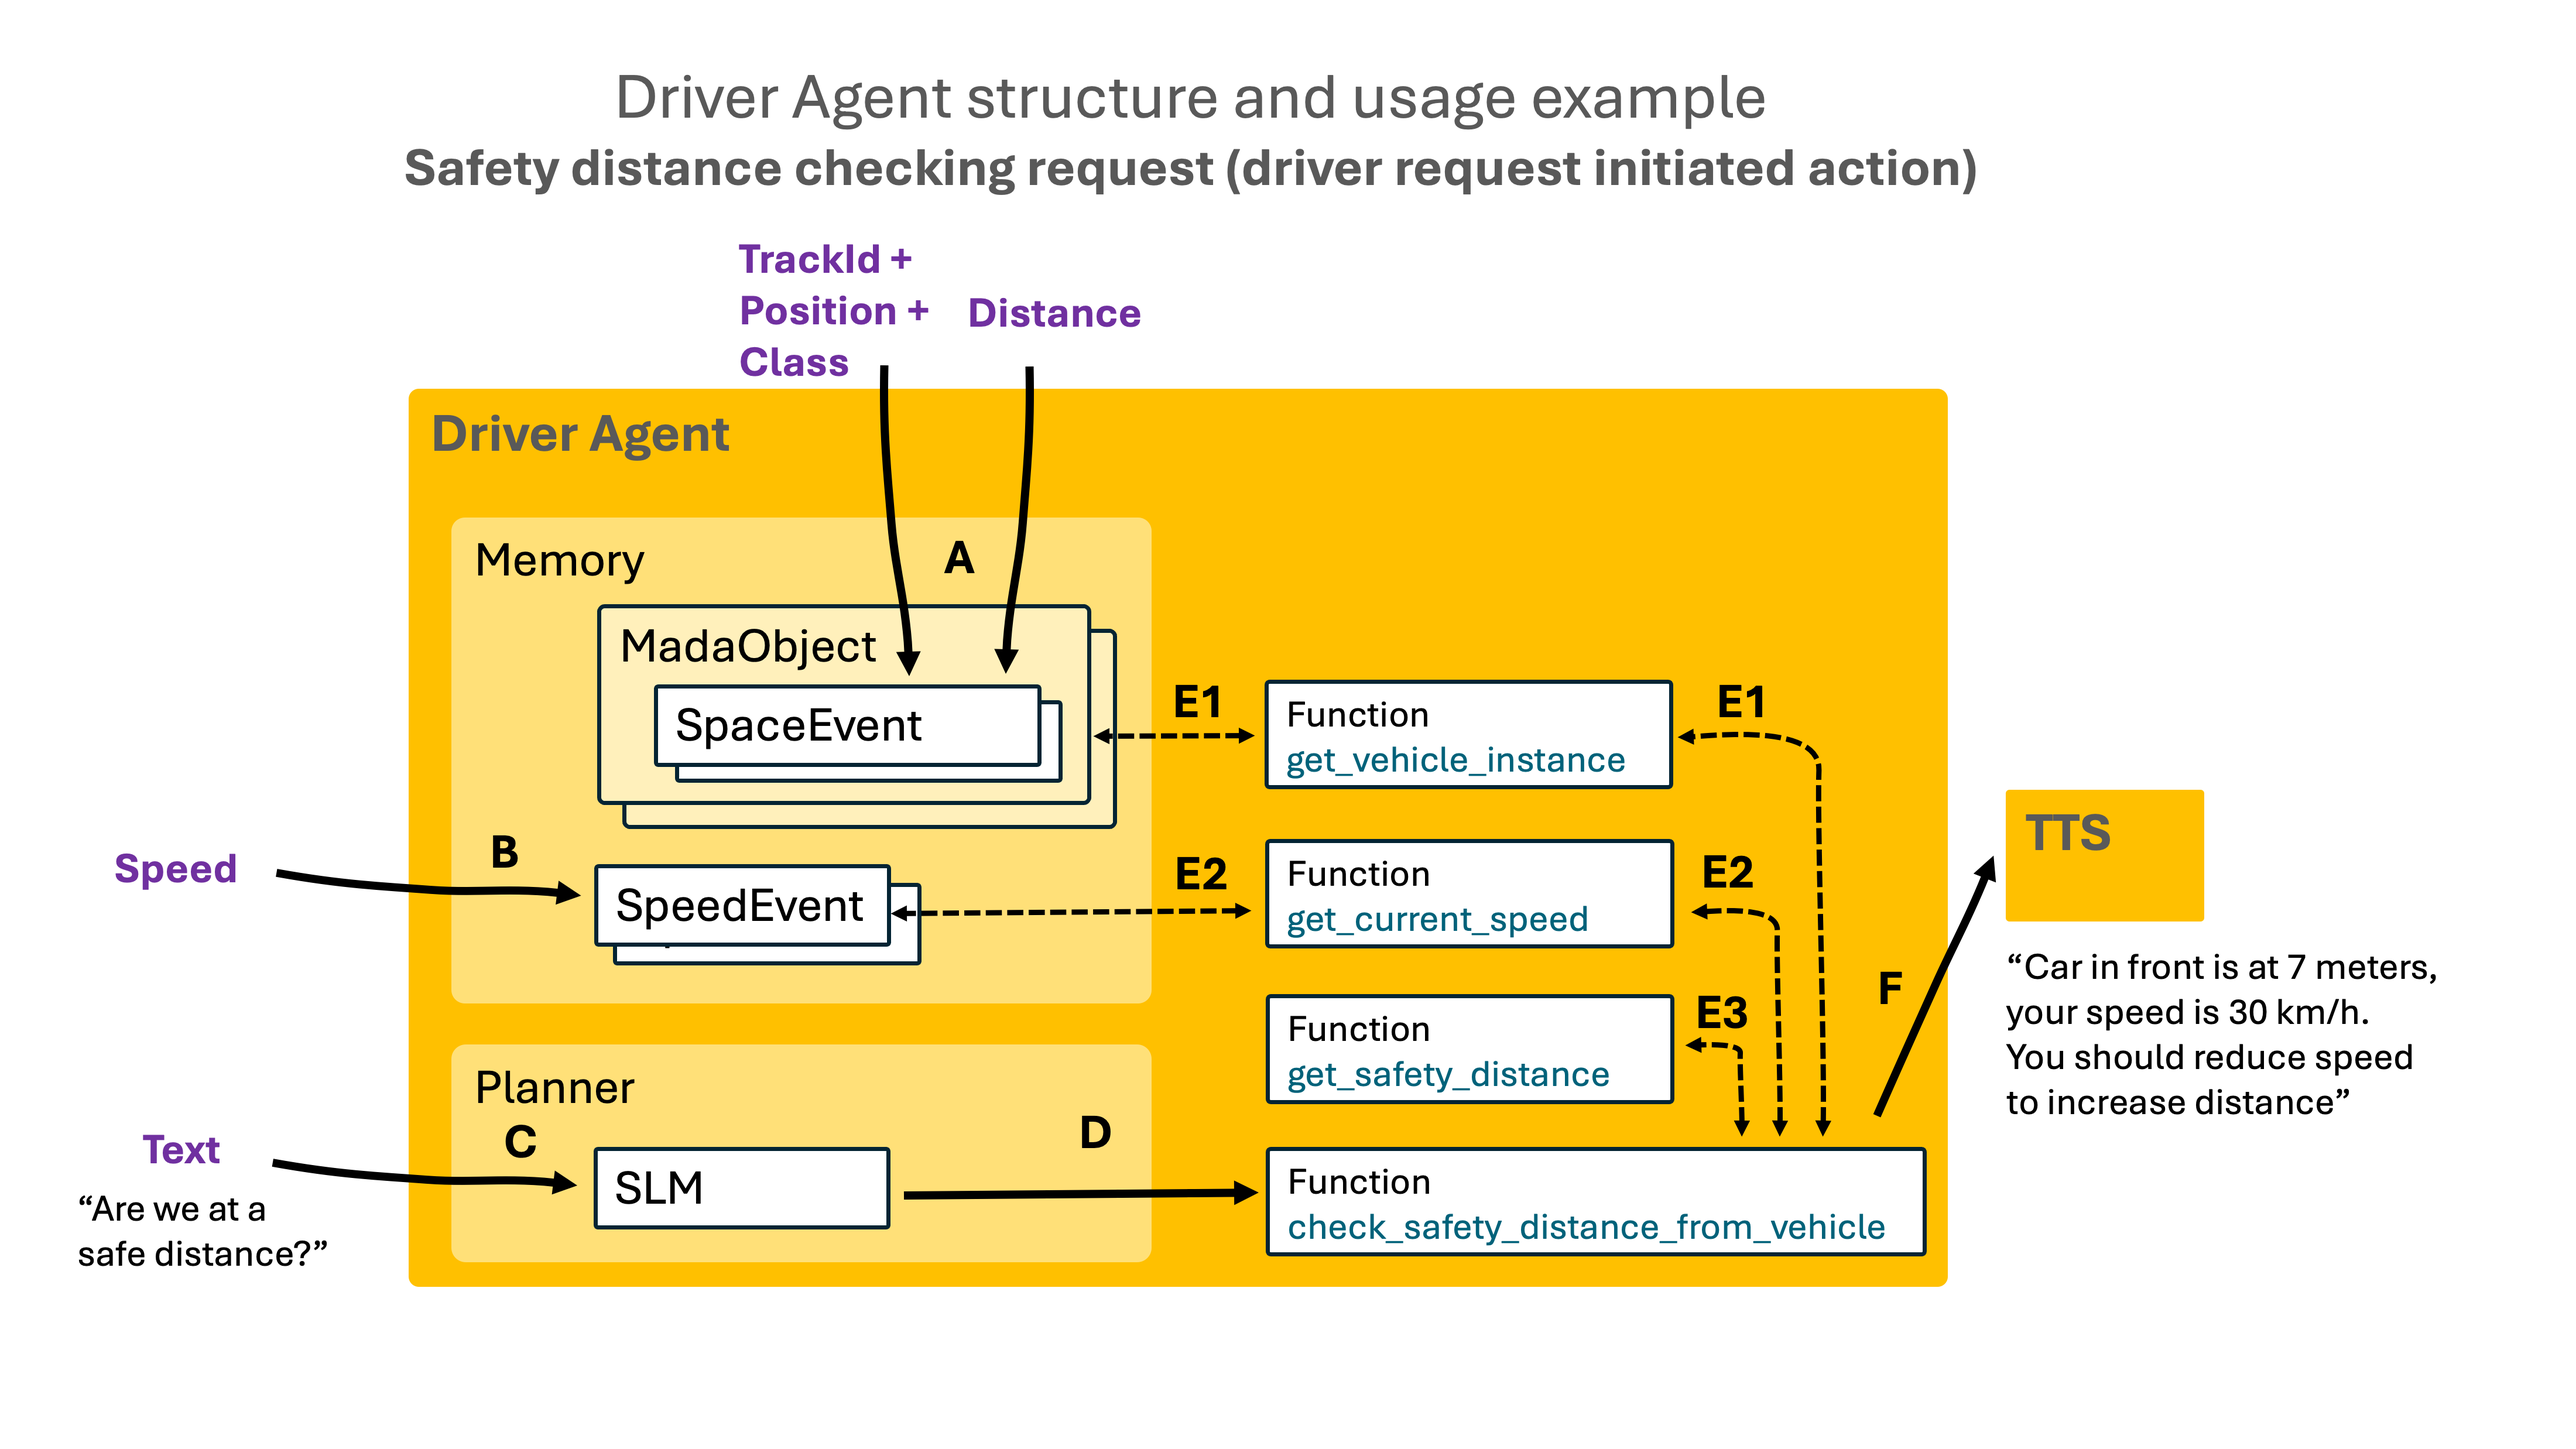
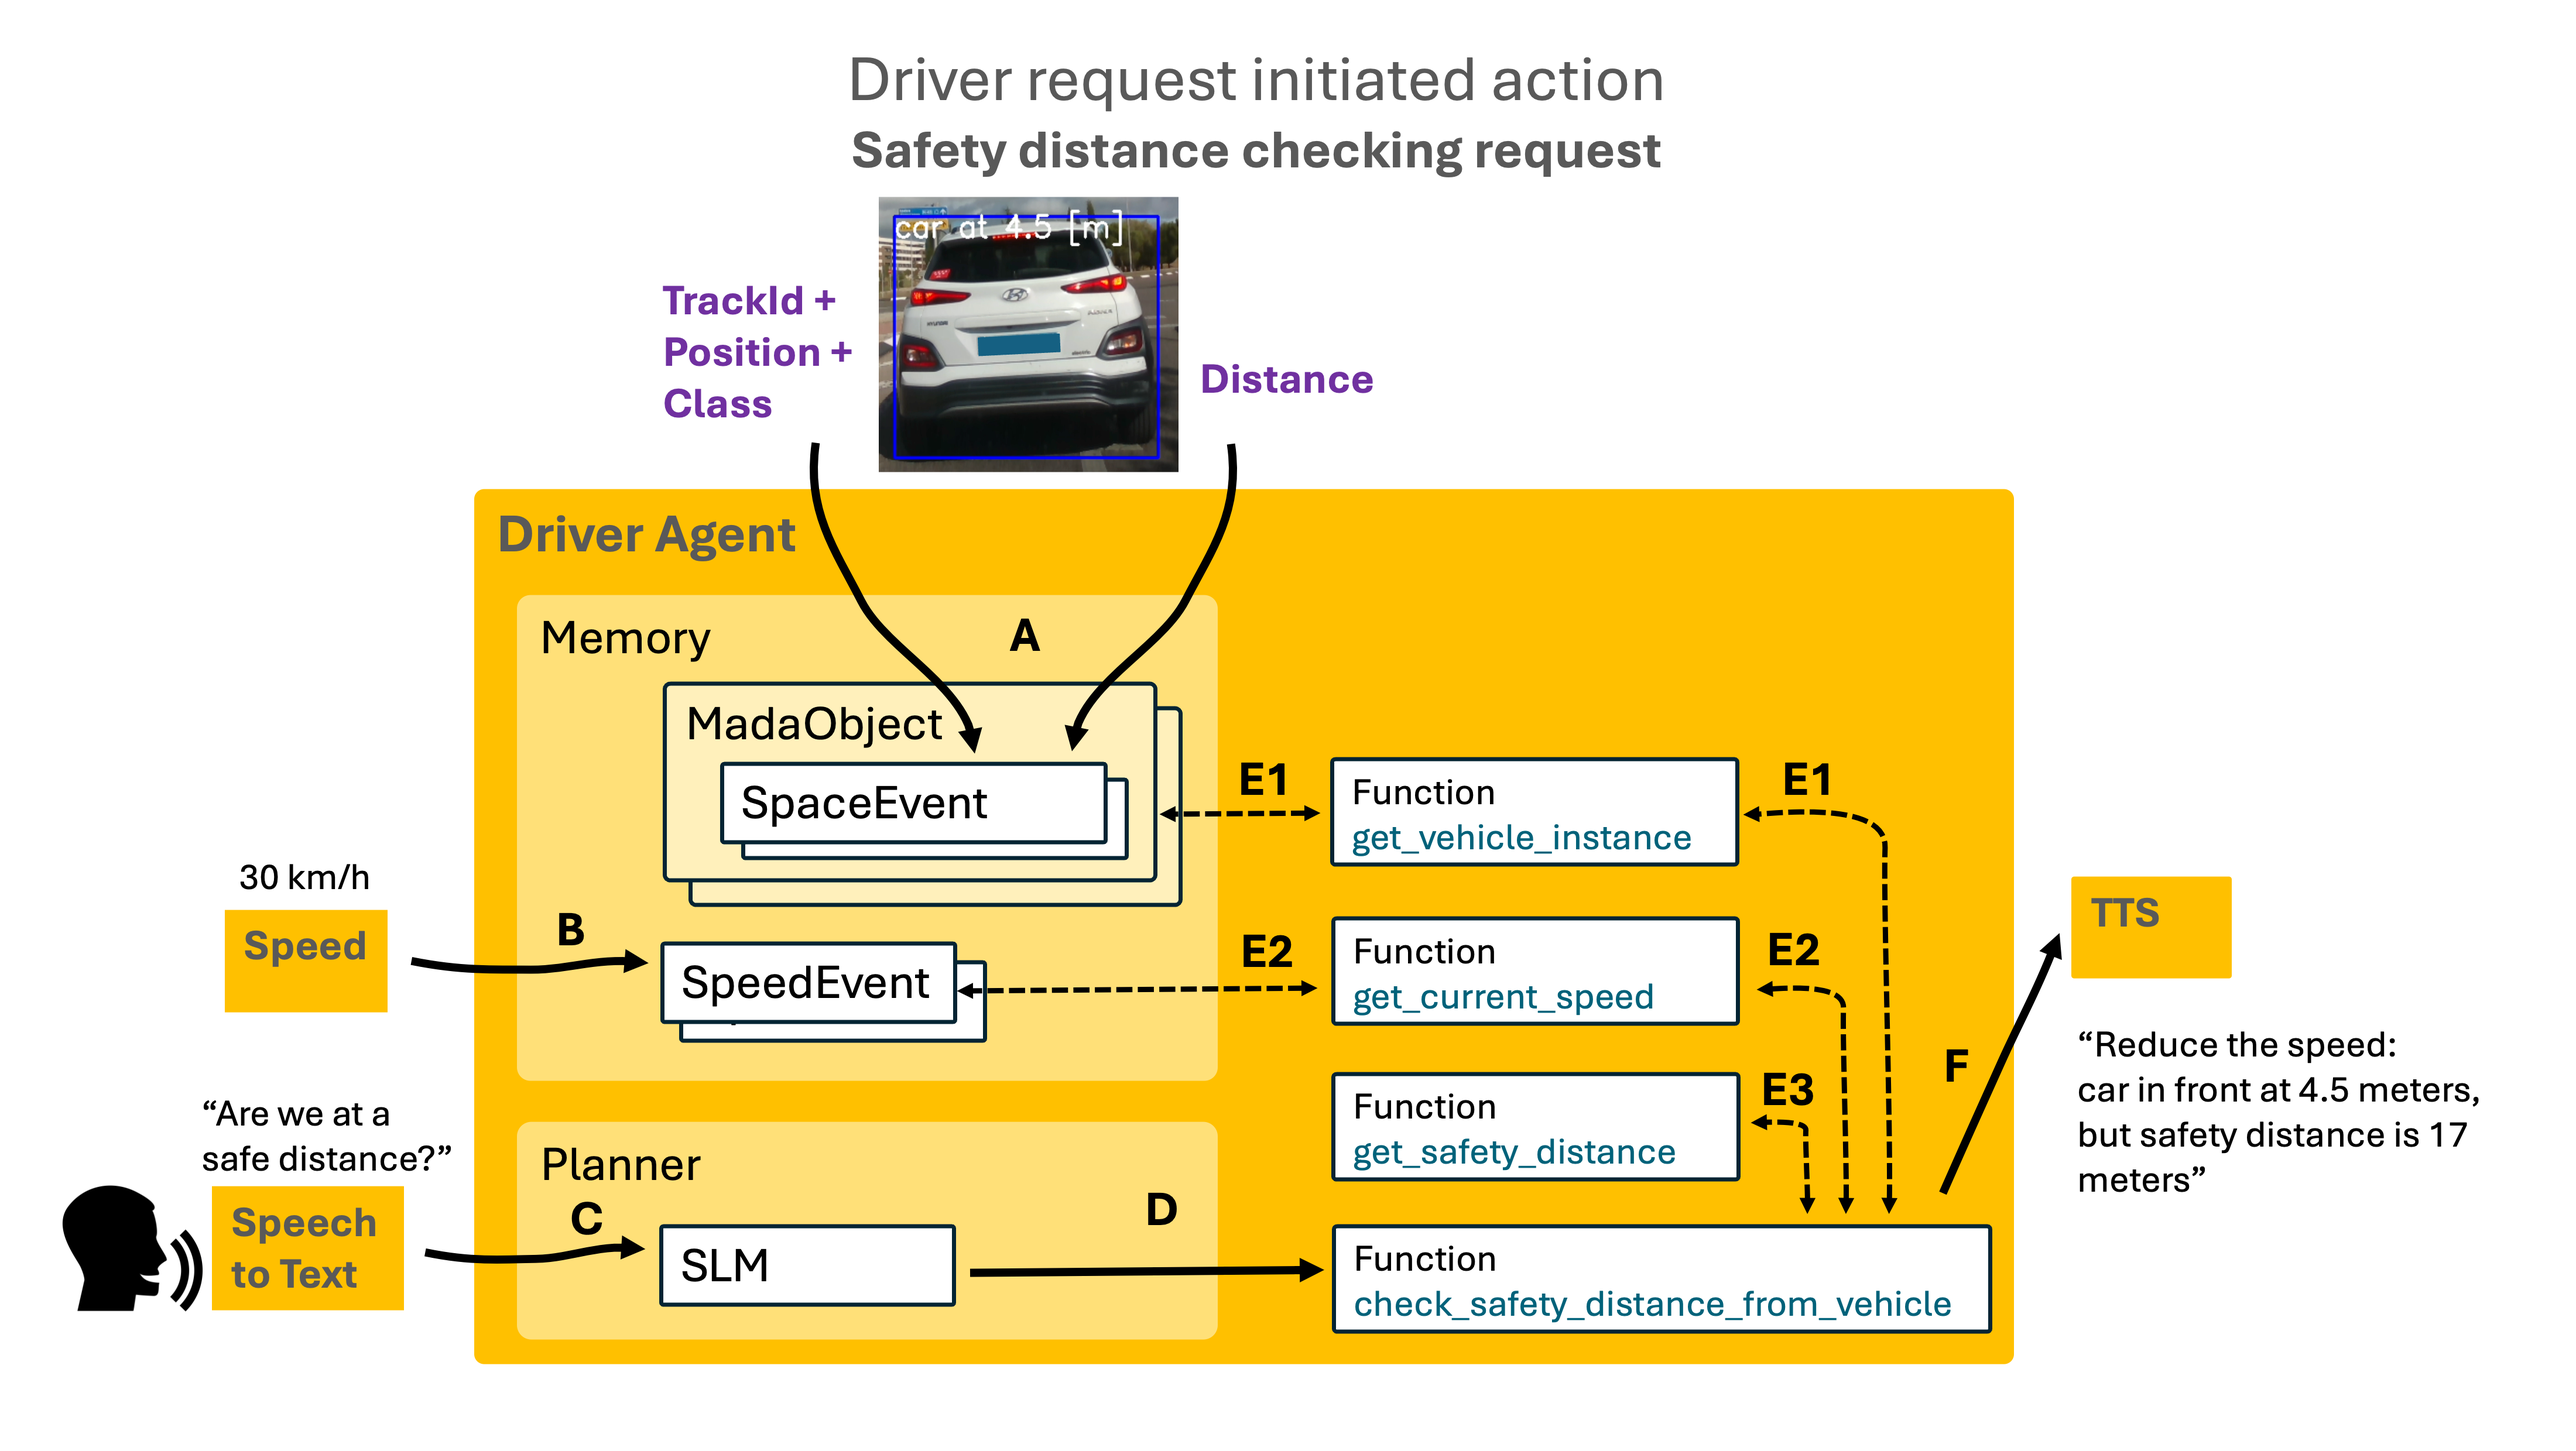
speed limit sign detection figure

diff --git a/README.md b/README.md
@@ -97,10 +97,23 @@ Text-to-speech functionality is currently very simple:
 - a call to macOS `afplay` command, which takes an audio file and plays it
 
 ### Driver Agent Usage example: event driven action
-(TODO)
+
 Next figure shows the Driver Agent structure with an example of use, an event action triggered by a detection of a speed limit sign.
 
 <img src="assets/driver_agent_speed_limit.png" alt="Driver Agent structure" width="800" height="450" />
+
+**A** Speed measurements are periodically collected from the GPS in the cell phone and sent to the server in the computer, 
+where they are stored as speed events in the Driver Agent’s Memory.
+
+**B** The Object Detector scans RGB images at a given frame rate from the camera in order to detect MADA objects:
+people, vehicles, traffic signs, traffic lights. When a MADA object is detected and tracked, a Space event is generated
+as attribute of the MADA object, consisting of the detected class name, the trackId, the bounding box and the distance to the camera.
+In this case, the Object Detector has detected a 20 km/h speed limit sign. A SpeedLimit object is created and a Space Event is added.
+
+**C** The `manage_space_event` method calls the function `get_current_speed`.
+
+**D** The method verifies that current speed is greater than the speed limit, therefore it generates a text recommending 
+the driver to reduce the speed. The text is sent to the TTS to be converted to audio.
 
 
 ### Driver Agent Usage example: driver request initiated action
@@ -110,10 +123,10 @@ Next figure shows another example of use, a driver request initiated action.
 
 **A** The Object Detector scans RGB images at a given frame rate from the camera in order to detect MADA objects:
 people, vehicles, traffic signs, traffic lights. When a MADA object is detected and tracked, a Space event is generated
-in the Driver Agent's Memory, consisting of the detected class name, the trackId, the bounding box and the distance to the camera.
+as attribute of the MADA object, consisting of the detected class name, the trackId, the bounding box and the distance to the camera.
 
 **B** Speed measurements are periodically collected from the GPS in the cell phone and sent to the server in the computer, 
-where they are stored in the Driver Agent’s Memory.
+where they are stored as speed events in the Driver Agent’s Memory.
 
 **C** The driver requests if the distance to the vehicle in front is safe; the request is recognized in the cell phone, 
 converted to text and sent to the SLM (Small Language Model) in the Driver Agent's Planner.
@@ -121,12 +134,13 @@ converted to text and sent to the SLM (Small Language Model) in the Driver Agent
 **D** The SLM scans the functions available and identifies one that may satisfy the driver request: 
 `check_safety_distance_from_vehicle`
 
-**E** The function executes the function `get_vehicle_instance` to get the car's space event data (which includes the position 
-and the distance), the function `get_current_speed` and the function `get_safety_distance` for current speed.
+**E** The function calls the function `get_vehicle_instance` to get the car's space event data (which includes the position 
+and the distance), the function `get_current_speed` and the function `get_safety_distance` (with current speed as parameter).
 
 **F** With the previous data, the function checks that the distance to the car in front is lower than the safety distance 
 at the current speed, and generates a text recommending the driver to reduce the speed. The text is sent to the TTS to be 
 converted to audio.
+
 
 ## Datasets
 The current version of MADA's Object Detector is a customization of the YOLO v8 Object Detector model, fine-tuned with 
